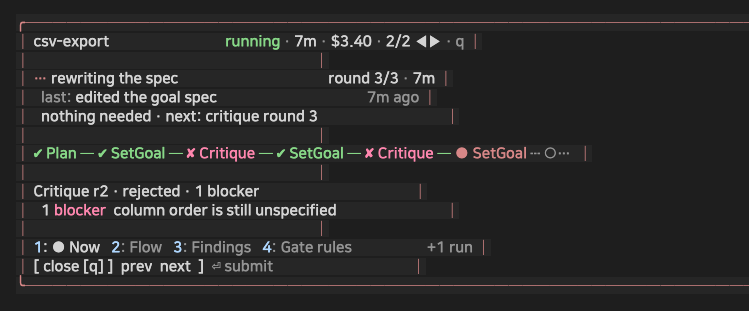
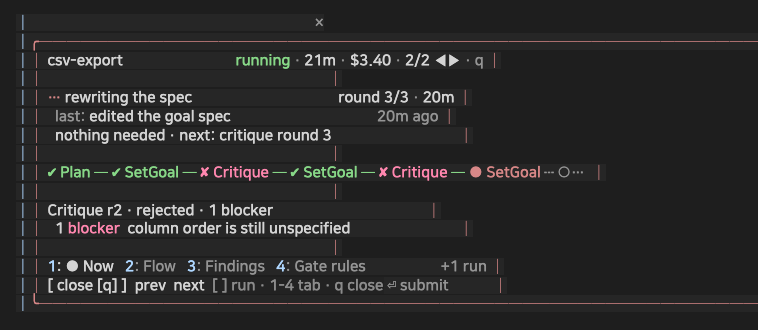
harness: card 40 U5 close clause, clean shots, backlog cards, orphan images removed

diff --git a/harness/README.md b/harness/README.md
@@ -273,7 +273,7 @@ harness ships a small mod: a status line with the open runs per stage, a three-r
 
 - **Status line**: open runs per stage, `Plan(6) / Implement(11)`. It counts this worktree's `fallback-check --list` rows (other worktrees belong to other sessions). A run untouched for 12 h is left out; with nothing open the line is empty. Gate decisions are not shown here; open `/harness-status`.
 - **Band** above the prompt: three rows for the leading harness run (harness runs only; graph runs are the graph mod's). Row 1 says what it is doing, `⚑` first when it waits on you, with the question; row 2 is the stage rail; row 3 is cost and time. `+N` counts the other open runs. Hidden when nothing is open.
-- **`/harness-status`** opens the pane on the run's Now tab (on Gate rules when no run is open); the command again, Esc or `q` closes it. Head of the pane: **Now** (the stage or subgoal at work, dim when it is the canned sentence of the stage, with `round n of max` while the critique loops and the time in this stage), **last step** and **You** (what the run needs from you, or "nothing needed" and what comes next). Under them, the rail: every critique round is a step, `✘ Critique` then `✔ SetGoal again`, up to the round cap. Tabs are Now, Flow, Findings and Gate rules (keys `1`-`4`; the selected one is bright with a dot). With two or more runs, `[` and `]` switch runs from the keyboard (no click first) and stop at the first and the last; the tab row says how many more there are.
+- **`/harness-status`** opens the pane on the run's Now tab (on Gate rules when no run is open); Esc or `q` closes it (typed again while the pane has focus, the command goes to the pane's input, not to the prompt). Head of the pane: **Now** (the stage or subgoal at work, dim when it is the canned sentence of the stage, with `round n of max` while the critique loops and the time in this stage), **last step** and **You** (what the run needs from you, or "nothing needed" and what comes next). Under them, the rail: every critique round is a step, `✘ Critique` then `✔ SetGoal again`, up to the round cap. Tabs are Now, Flow, Findings and Gate rules (keys `1`-`4`; the selected one is bright with a dot). With two or more runs, `[` and `]` switch runs from the keyboard (no click first) and stop at the first and the last; the tab row says how many more there are.
   - **Now** shows the findings of the newest critique round, worst first, and a `+n: …` line for the rest.
   - **Flow** draws each stage in order. A subgoal opens into its gate verdicts: a rejected attempt shows its reason (`↳ …`) and the retry sits one level under it. A rejected critique (`sound:false`) and a failing goal gate show theirs too.
   - **Findings** lists every critique round: its verdict, then its findings by severity (blocker, major, minor, nit), with a total over all rounds on top.

diff --git a/_repo/docs/backlog.md b/_repo/docs/backlog.md
@@ -108,6 +108,21 @@ those, one card per EPIC (43 first; 40 and 41 before 42).
       방향은 teams"; evaluation by a seeded matrix with repeated runs ("여러 번 돌려보는게 맞을거 같음").
     - Acceptance: the plan's Tasks 1–9 with their pass bars; after UI cards (user priority).
 
+### harness mod pane (card 40 live check, 2026-10-21)
+
+55. **`/harness-status` typed again does not close the open pane**
+    - Why: seen live 2026-10-21 (tmux, 190 and 110 columns): with the pane open the command is typed
+      again and the reply is "harness: pane opened" each time; the pane's focused Input takes the
+      keystrokes, so `mod.tsx:566-570` is not reached. Also on 23f4234f, so not from card 40.
+      Cause unverified.
+    - Acceptance: in a live tmux session the command typed again closes the pane, captured at 190
+      and 110 columns; README/KOR say so again.
+
+56. **harness band has no open action for the pane**
+    - Why: seen live 2026-10-21: `mod.md` says the pane opens by its command or its band line, but
+      the band (AbovePrompt) has no Button or key that opens it; clicks did nothing. Cause unverified.
+    - Acceptance: one click or key on the band opens the pane, captured live at 190 and 110 columns.
+
 ### Subagents and parallel runs — use and clean up (user, 2026-10-17)
 
 51. **Every subagent, driver and worktree started is reaped when its work ends, and a cap holds
